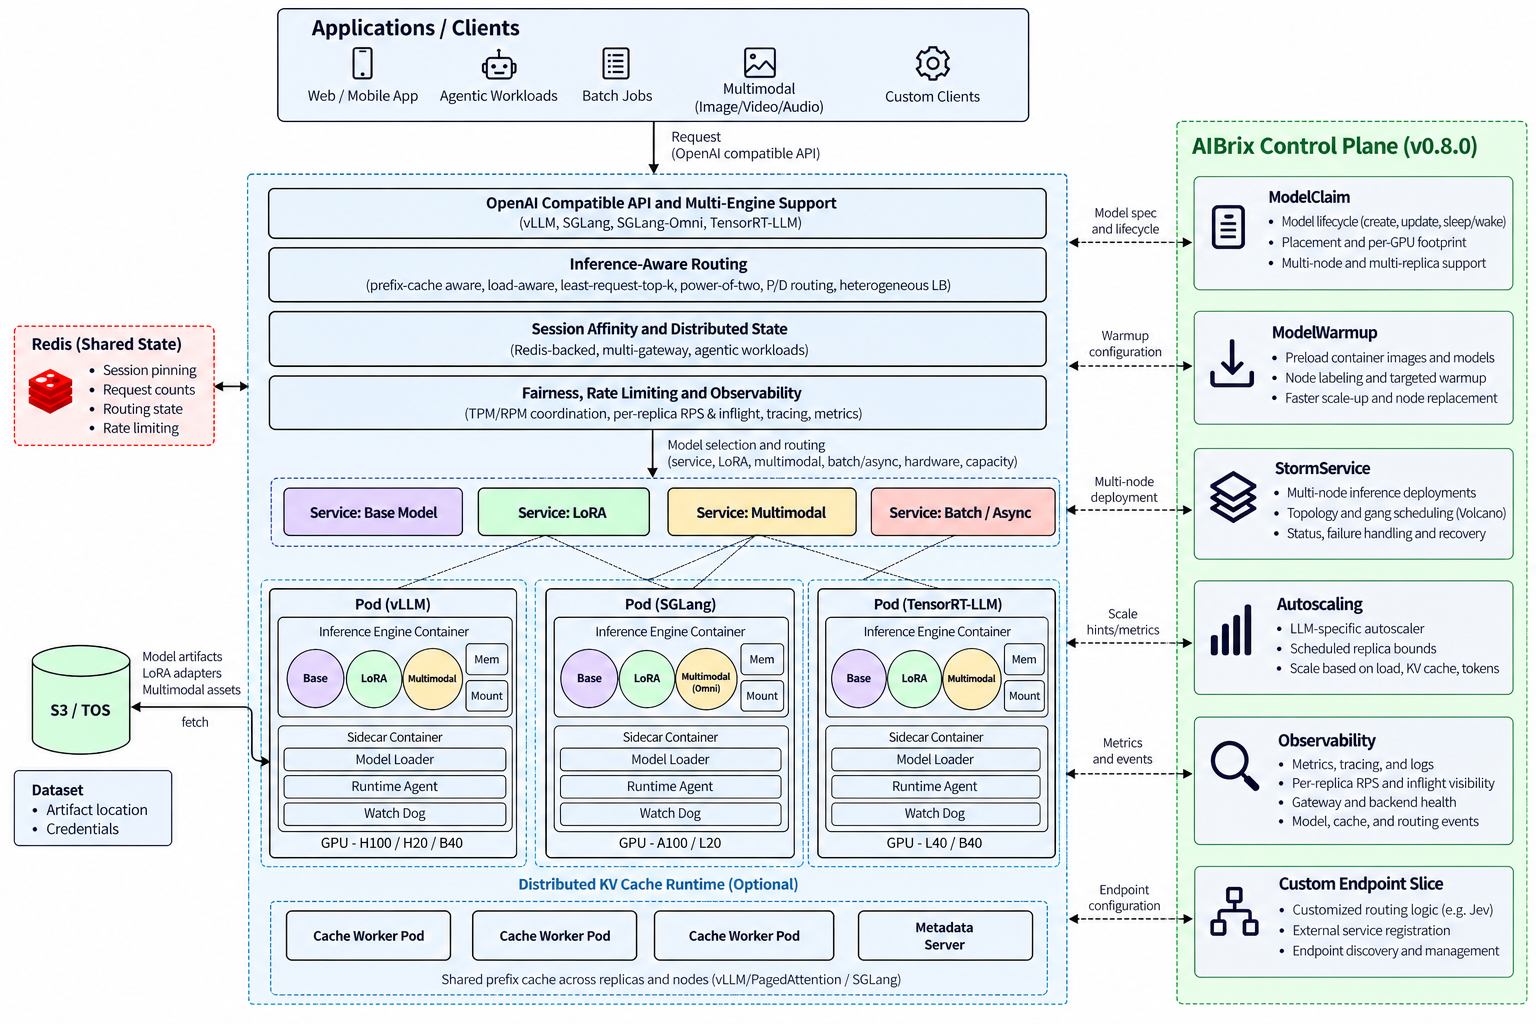
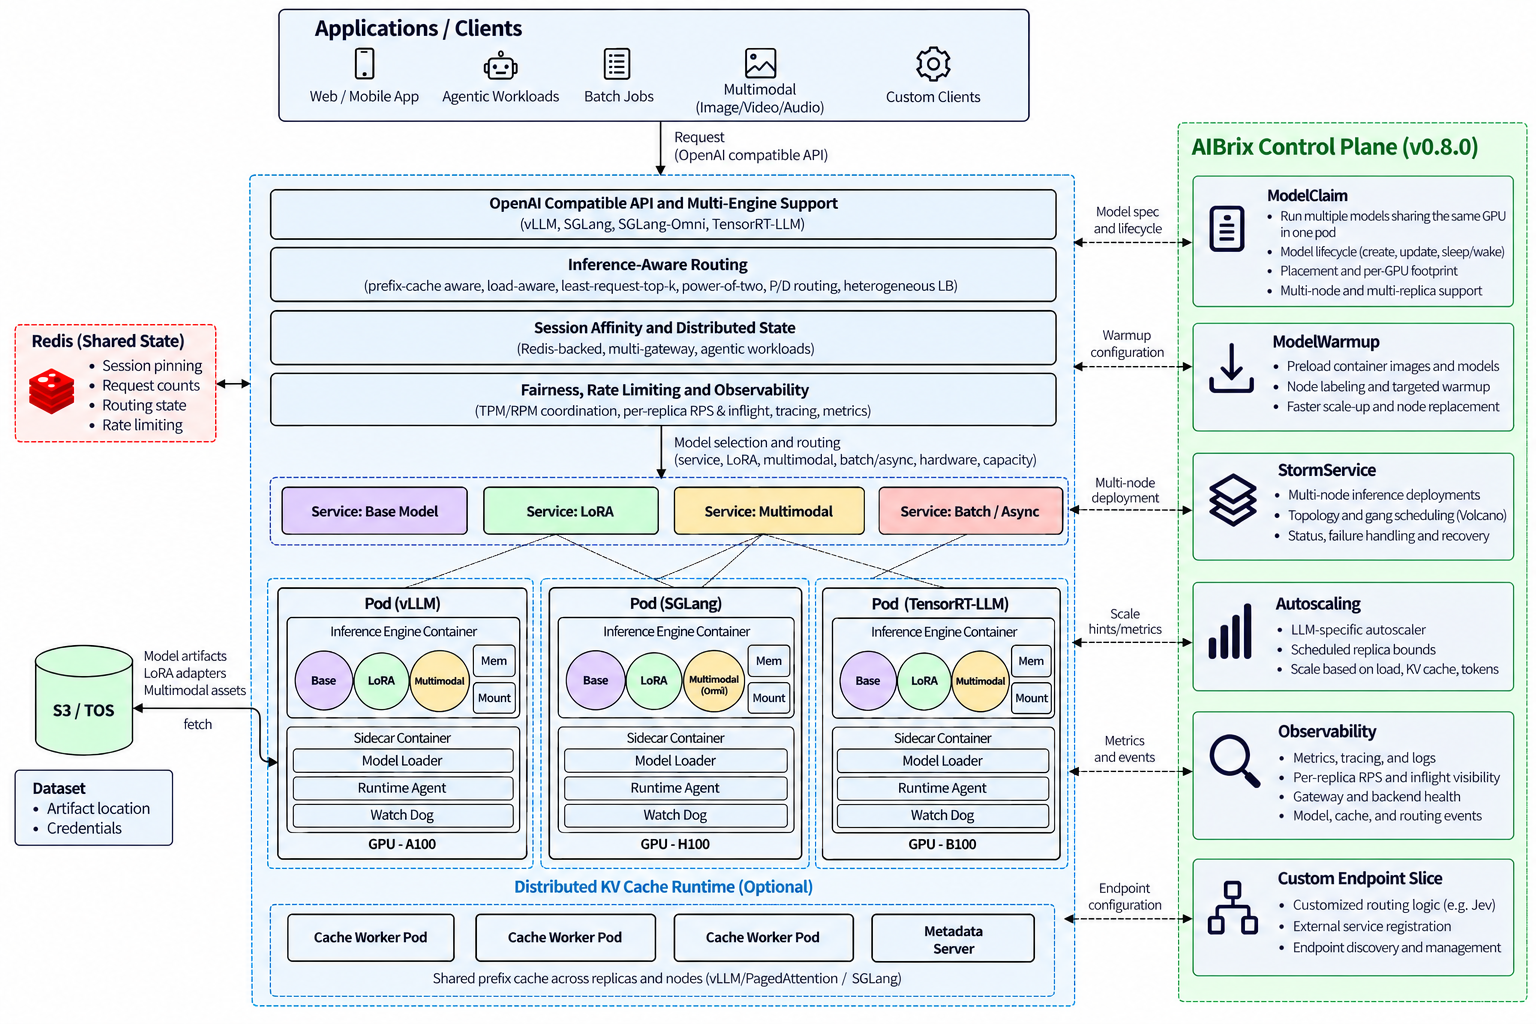
address gemini comments

Changed region(s): [[0.0, 0.0, 1.0, 1.0], [0.0, 0.75, 0.0938, 0.8438], [0.9688, 0.5625, 1.0, 0.5938]]

diff --git a/README.md b/README.md
@@ -1,96 +1,121 @@
 # AIBrix
 
-Welcome to AIBrix, an open-source initiative designed to provide essential building blocks to construct scalable GenAI inference infrastructure. AIBrix delivers a cloud-native solution optimized for deploying, managing, and scaling large language model (LLM) inference, tailored specifically to enterprise needs.
-
-
 <p align="center">
-| <a href="https://aibrix.readthedocs.io/latest/"><b>Documentation</b></a> | <a href="https://aibrix.github.io/"><b>Blog</b></a> | <a href="https://arxiv.org/abs/2504.03648"><b>White Paper</b></a> | <a href="https://x.com/vllm_project"><b>Twitter/X</b></a> | <a href="https://vllm-dev.slack.com/archives/C08EQ883CSV"><b>Developer Slack</b></a> |
+  <a href="LICENSE"><img src="https://img.shields.io/badge/License-Apache_2.0-blue.svg" alt="License"></a>
+  <a href="https://aibrix.readthedocs.io/latest/"><img src="https://img.shields.io/badge/docs-latest-brightgreen.svg" alt="Documentation"></a>
+  <a href="https://github.com/vllm-project/aibrix/releases/latest"><img src="https://img.shields.io/github/v/release/vllm-project/aibrix?label=release" alt="Release"></a>
+  <a href="https://vllm-dev.slack.com/archives/C08EQ883CSV"><img src="https://img.shields.io/badge/slack-%23aibrix-4A154B.svg" alt="Slack"></a>
 </p>
 
-## Latest News
+<p align="center">
+  <a href="https://aibrix.readthedocs.io/latest/"><b>Documentation</b></a> ·
+  <a href="https://aibrix.github.io/"><b>Blog</b></a> ·
+  <a href="https://arxiv.org/abs/2504.03648"><b>White paper</b></a> ·
+  <a href="https://x.com/vllm_project"><b>X</b></a> ·
+  <a href="https://vllm-dev.slack.com/archives/C08EQ883CSV"><b>Slack</b></a>
+</p>
 
-### Releases
-- **[2026-06-16]** AIBrix v0.7.0 is released. Check out the [release notes](https://github.com/vllm-project/aibrix/releases/tag/v0.7.0) and [Blog Post](https://aibrix.github.io/posts/2026-06-16-v0.7.0-release/) for more details.
-- **[2026-03-05]** AIBrix v0.6.0 is released. Check out the [release notes](https://github.com/vllm-project/aibrix/releases/tag/v0.6.0) and [Blog Post](https://aibrix.github.io/posts/2026-03-03-v0.6.0-release/) for more details.
-- **[2025-11-10]** AIBrix v0.5.0 is released. Check out the [release notes](https://github.com/vllm-project/aibrix/releases/tag/v0.5.0) and [Blog Post](https://aibrix.github.io/posts/2025-11-10-v0.5.0-release/) for more details.
-- **[2025-08-05]** AIBrix v0.4.0 is released. Check out the [release notes](https://github.com/vllm-project/aibrix/releases/tag/v0.4.0) and [Blog Post](https://aibrix.github.io/posts/2025-08-04-v0.4.0-release/) for more details.
-- **[2025-05-21]** AIBrix v0.3.0 is released. Check out the [release notes](https://github.com/vllm-project/aibrix/releases/tag/v0.3.0) and [Blog Post](https://aibrix.github.io/posts/2025-05-21-v0.3.0-release/) for more details.
-- **[2025-03-09]** AIBrix v0.2.1 is released. DeepSeek-R1 full weights deployment is supported and gateway stability has been improved! Check [Blog Post](https://aibrix.github.io/posts/2025-03-10-deepseek-r1/) for more details.
-- **[2025-02-19]** AIBrix v0.2.0 is released. Check out the [release notes](https://github.com/vllm-project/aibrix/releases/tag/v0.2.0) and [Blog Post](https://aibrix.github.io/posts/2025-02-05-v0.2.0-release/) for more details.
-- **[2024-11-13]** AIBrix v0.1.0 is released. Check out the [release notes](https://github.com/vllm-project/aibrix/releases/tag/v0.1.0) and [Blog Post](https://aibrix.github.io/posts/2024-11-12-v0.1.0-release/) for more details.
+AIBrix is a Kubernetes control plane for production LLM inference. You bring the engine — vLLM, SGLang, or TensorRT-LLM — and AIBrix routes each request from live engine state, scales on inference metrics, and manages models, LoRA adapters, and KV cache.
 
-### Talks and Presentations
+Use it when you run many models or replicas, mix GPU types, or need to hold cost and latency targets.
 
-- **[2025-11-12]** AIBrix team co-delivered a keynote at KubeCon North America 2025 [AIBrix: Kubernetes-native GenAI Inference Infrastructure](https://www.youtube.com/watch?v=7KHenRXNGAw&t=875s), providing AIBrix overview.
-- **[2025-06-10]** AIBrix team delivered a talk at KubeCon China 2025 titled [AIBrix: Cost-Effective and Scalable Kubernetes Control Plane for vLLM](https://kccncchn2025.sched.com/event/1x5im/introducing-aibrix-cost-effective-and-scalable-kubernetes-control-plane-for-vllm-jiaxin-shan-liguang-xie-bytedance), discussing how the framework optimizes vLLM deployment via Kubernetes for cost efficiency and scalability.
-- **[2025-04-04]** AIBrix team co-delivered a keynote at KubeCon EU 2025 with Google on [LLM-Aware Load Balancing in Kubernetes: A New Era of Efficiency](https://kccnceu2025.sched.com/event/1txC7/keynote-llm-aware-load-balancing-in-kubernetes-a-new-era-of-efficiency-clayton-coleman-distinguished-engineer-google-jiaxin-shan-software-engineer-bytedance), focusing on LLM specific routing solutions.
-- **[2025-03-30]** AIBrix was featured at the [ASPLOS'25](http://asplos-conference.org/asplos2025/) workshop with the presentation [AIBrix: An Open-Source, Large-Scale LLM Inference Infrastructure for System Research](https://docs.google.com/presentation/d/1YDVsPFTIgGXnROGaJ1VKuDDAB4T5fzpE/edit), showcasing its architecture for efficient LLM inference in system research scenarios.
+## Features
 
-## Key Features
-
-The initial release includes the following key features:
-
-- **High-Density LoRA Management**: Streamlined support for lightweight, low-rank adaptations of models.
-- **LLM Gateway and Routing**: Efficiently manage and direct traffic across multiple models and replicas.
-- **LLM App-Tailored Autoscaler**: Dynamically scale inference resources based on real-time demand.
-- **Unified AI Runtime**: A versatile sidecar enabling metric standardization, model downloading, and management.
-- **Distributed Inference**: Scalable architecture to handle large workloads across multiple nodes.
-- **Distributed KV Cache**: Enables high-capacity, cross-engine KV reuse.
-- **Cost-efficient Heterogeneous Serving**: Enables mixed GPU inference to reduce costs with SLO guarantees.
-- **GPU Hardware Failure Detection**: Proactive detection of GPU hardware issues.
+| Capability | What it does |
+| --- | --- |
+| [Gateway and routing](https://aibrix.readthedocs.io/latest/features/gateway-routing/gateway-plugins.html) | OpenAI-compatible API. Picks a pod from live engine state, including prefix-cache, load, and [prefill/decode](https://aibrix.readthedocs.io/latest/features/gateway-routing/pd-disaggregation.html) placement, with session affinity for agentic workloads. |
+| [Multi-engine](https://aibrix.readthedocs.io/latest/features/model-serving/multi-engine.html) | Serve vLLM, SGLang, and TensorRT-LLM behind one gateway. |
+| [LoRA](https://aibrix.readthedocs.io/latest/features/model-serving/lora-dynamic-loading.html) | Pack many low-rank adapters onto shared base-model pods. |
+| [Model lifecycle](https://aibrix.readthedocs.io/latest/features/model-serving/model-claim.html) | Declare models with ModelClaim, and [preload images and weights](https://aibrix.readthedocs.io/latest/features/model-serving/model-warmup.html) with ModelWarmup so scale-up is faster. |
+| [Autoscaling](https://aibrix.readthedocs.io/latest/features/scaling-performance/autoscaling/autoscaling.html) | Scale replicas on engine metrics such as queue depth, KV cache, and tokens. |
+| [Distributed inference](https://aibrix.readthedocs.io/latest/features/model-serving/multi-node-inference.html) | Run multi-node and multi-role deployments, including prefill/decode, with StormService. |
+| [Distributed KV cache](https://aibrix.readthedocs.io/latest/features/scaling-performance/kvcache-offloading.html) | Offload KV cache and reuse it across engines. |
+| [Heterogeneous GPUs](https://aibrix.readthedocs.io/latest/features/model-serving/heterogeneous-gpu.html) | Mix GPU types and still target cost and SLO. Experimental. |
+| [Runtime](https://aibrix.readthedocs.io/latest/features/model-serving/runtime.html) | Sidecar that downloads weights, loads and unloads adapters, and normalizes engine metrics. |
 
 ## Architecture
 
-![aibrix-architecture-v1](docs/source/assets/images/aibrix-architecture-v1.jpeg)
+![AIBrix architecture: a data plane that routes requests to engine pods, and a Kubernetes control plane for model lifecycle, warmup, multi-node serving, autoscaling, and observability](docs/source/assets/images/aibrix-architecture-v2.png)
 
+Requests hit an OpenAI-compatible gateway and go straight to an engine pod. Kubernetes controllers decide what should be running: model lifecycle, warmup, multi-node topology, autoscaling, and observability. The [architecture guide](https://aibrix.readthedocs.io/latest/designs/architecture.html) walks through both planes.
 
-## Quick Start
+## Quick start
 
-To get started with AIBrix, clone this repository and follow the setup instructions in the documentation. Our comprehensive guide will help you configure and deploy your first LLM infrastructure seamlessly.
+These commands install AIBrix, including its Envoy Gateway dependency, into the cluster your current `kubectl` context points at. KubeRay is included and is only required for Ray-based multi-node inference.
+
+The snippet uses **v0.7.0**, the latest published release, so the downloads succeed today. This repository’s manifests track the [v0.8.0-rc.1](https://github.com/vllm-project/aibrix/releases/tag/v0.8.0-rc.1) release candidate; that GitHub release is still a draft, and its asset URLs return 404 until it is published. Switch `VERSION` when it is.
+
+### Install a release
 
 ```shell
-# Local Testing
+VERSION=v0.7.0
+
+# Dependencies (Envoy Gateway, KubeRay, and friends)
+kubectl apply -f "https://github.com/vllm-project/aibrix/releases/download/${VERSION}/aibrix-dependency-${VERSION}.yaml" --server-side
+
+# CRDs ship separately so uninstalling the operator does not delete user resources
+kubectl apply -f "https://github.com/vllm-project/aibrix/releases/download/${VERSION}/aibrix-core-crds-${VERSION}.yaml" --server-side
+
+# Controllers, gateway plugins, and supporting services
+kubectl apply -f "https://github.com/vllm-project/aibrix/releases/download/${VERSION}/aibrix-core-${VERSION}.yaml"
+
+kubectl get pods -n aibrix-system
+```
+
+When the pods are ready, deploy a model and call the gateway. The [quickstart](https://aibrix.readthedocs.io/latest/getting_started/quickstart.html) has a base-model manifest and the OpenAI-compatible curl commands. Helm install steps are in the [installation guide](https://aibrix.readthedocs.io/latest/getting_started/installation/installation.html).
+
+### Install from this checkout
+
+Images in `config/default` are tagged `nightly`.
+
+```shell
 git clone https://github.com/vllm-project/aibrix.git
 cd aibrix
 
-# Install nightly aibrix dependencies
 kubectl apply -k config/dependency --server-side
-
-# Install nightly AIBrix CRDs (separate from the operator so uninstalls don't wipe user CRs)
 kubectl apply -k config/crd --server-side
-
-# Install nightly aibrix components
 kubectl apply -k config/default
-```
-
-Install stable distribution
-```shell
-# Install component dependencies
-kubectl apply -f "https://github.com/vllm-project/aibrix/releases/download/v0.8.0-rc.1/aibrix-dependency-v0.8.0-rc.1.yaml" --server-side
-
-# Install AIBrix CRDs (separate from the operator so uninstalls don't wipe user CRs)
-kubectl apply -f "https://github.com/vllm-project/aibrix/releases/download/v0.8.0-rc.1/aibrix-core-crds-v0.8.0-rc.1.yaml" --server-side
-
-# Install aibrix components
-kubectl apply -f "https://github.com/vllm-project/aibrix/releases/download/v0.8.0-rc.1/aibrix-core-v0.8.0-rc.1.yaml"
 ```
 
 ## Documentation
 
-For detailed documentation on installation, configuration, and usage, please visit our [documentation page](https://aibrix.readthedocs.io/latest/).
+Full guides live at [aibrix.readthedocs.io](https://aibrix.readthedocs.io/latest/).
 
-## Contributing
+| You want to | Start here |
+| --- | --- |
+| Serve a first model | [Overview](https://aibrix.readthedocs.io/latest/getting_started/overview.html), then the [quickstart](https://aibrix.readthedocs.io/latest/getting_started/quickstart.html) |
+| Make a running deployment cheaper | [Autoscaling](https://aibrix.readthedocs.io/latest/features/scaling-performance/autoscaling/autoscaling.html), [LoRA](https://aibrix.readthedocs.io/latest/features/model-serving/lora-dynamic-loading.html), [KV cache](https://aibrix.readthedocs.io/latest/features/scaling-performance/kvcache-offloading.html), [observability](https://aibrix.readthedocs.io/latest/production/observability.html) |
+| Hit scale or latency targets | [Prefill/decode](https://aibrix.readthedocs.io/latest/features/gateway-routing/pd-disaggregation.html), [multi-node inference](https://aibrix.readthedocs.io/latest/features/model-serving/multi-node-inference.html), [heterogeneous GPUs](https://aibrix.readthedocs.io/latest/features/model-serving/heterogeneous-gpu.html) |
 
-We welcome contributions from the community! Check out our [contributing guidelines](./CONTRIBUTING.md) to see how you can make a difference.
+## News
 
-Slack Channel: [#aibrix](https://vllm-dev.slack.com/archives/C08EQ883CSV)
+### Releases
 
-## License
+- **[2026-10-09]** [v0.8.0-rc.1](https://github.com/vllm-project/aibrix/releases/tag/v0.8.0-rc.1) release candidate.
+- **[2026-06-16]** [v0.7.0](https://github.com/vllm-project/aibrix/releases/tag/v0.7.0) · [blog](https://aibrix.github.io/posts/2026-06-16-v0.7.0-release/)
+- **[2026-03-05]** [v0.6.0](https://github.com/vllm-project/aibrix/releases/tag/v0.6.0) · [blog](https://aibrix.github.io/posts/2026-03-03-v0.6.0-release/)
+- **[2025-11-10]** [v0.5.0](https://github.com/vllm-project/aibrix/releases/tag/v0.5.0) · [blog](https://aibrix.github.io/posts/2025-11-10-v0.5.0-release/)
 
-AIBrix is licensed under the [Apache 2.0 License](LICENSE).
+<details>
+<summary>Older releases</summary>
 
-## Support
+- **[2025-08-05]** [v0.4.0](https://github.com/vllm-project/aibrix/releases/tag/v0.4.0) · [blog](https://aibrix.github.io/posts/2025-08-04-v0.4.0-release/)
+- **[2025-05-21]** [v0.3.0](https://github.com/vllm-project/aibrix/releases/tag/v0.3.0) · [blog](https://aibrix.github.io/posts/2025-05-21-v0.3.0-release/)
+- **[2025-03-09]** [v0.2.1](https://github.com/vllm-project/aibrix/releases/tag/v0.2.1) adds DeepSeek-R1 full-weight deployment and gateway stability fixes. [Blog](https://aibrix.github.io/posts/2025-03-10-deepseek-r1/)
+- **[2025-02-19]** [v0.2.0](https://github.com/vllm-project/aibrix/releases/tag/v0.2.0) · [blog](https://aibrix.github.io/posts/2025-02-05-v0.2.0-release/)
+- **[2024-11-13]** [v0.1.0](https://github.com/vllm-project/aibrix/releases/tag/v0.1.0) · [blog](https://aibrix.github.io/posts/2024-11-12-v0.1.0-release/)
 
-If you have any questions or encounter any issues, please submit an issue on our [GitHub issues page](https://github.com/vllm-project/aibrix/issues).
+</details>
 
-Thank you for choosing AIBrix for your GenAI infrastructure needs!
+### Talks
+
+- **[2025-11-12]** KubeCon North America keynote: [Kubernetes-native GenAI Inference Infrastructure](https://www.youtube.com/watch?v=7KHenRXNGAw&t=875s)
+- **[2025-06-10]** KubeCon China: [Cost-effective Kubernetes control plane for vLLM](https://kccncchn2025.sched.com/event/1x5im/introducing-aibrix-cost-effective-and-scalable-kubernetes-control-plane-for-vllm-jiaxin-shan-liguang-xie-bytedance)
+- **[2025-04-04]** KubeCon EU keynote, with Google: [LLM-aware load balancing in Kubernetes](https://kccnceu2025.sched.com/event/1txC7/keynote-llm-aware-load-balancing-in-kubernetes-a-new-era-of-efficiency-clayton-coleman-distinguished-engineer-google-jiaxin-shan-software-engineer-bytedance)
+- **[2025-03-30]** ASPLOS'25 workshop: [Large-scale LLM inference infrastructure for systems research](https://docs.google.com/presentation/d/1YDVsPFTIgGXnROGaJ1VKuDDAB4T5fzpE/edit)
+
+## Community
+
+Contributions are welcome. Read the [contributing guide](./CONTRIBUTING.md), talk in [#aibrix](https://vllm-dev.slack.com/archives/C08EQ883CSV) on the vLLM Slack, or email [maintainers@aibrix.ai](mailto:maintainers@aibrix.ai).
+
+Bugs and feature requests go on [GitHub Issues](https://github.com/vllm-project/aibrix/issues). AIBrix is licensed under [Apache 2.0](LICENSE).

diff --git a/docs/source/index.rst b/docs/source/index.rst
@@ -11,9 +11,11 @@ AIBrix delivers a cloud-native solution optimized for deploying, managing, and s
 
 Key features:
 
-- **LLM Gateway and Routing**: Efficiently manage and direct traffic across multiple models and replicas.
+- **LLM Gateway and Routing**: OpenAI-compatible gateway that routes by live engine state, with prefix-cache-aware, load-aware, and P/D routing, plus session affinity for agentic workloads.
+- **Multi-Engine Support**: Serve vLLM, SGLang, TensorRT-LLM, and xLLM side by side behind one gateway.
 - **High-Density LoRA Management**: Streamlined support for lightweight, low-rank adaptations of models.
-- **Distributed Inference**: Scalable architecture to handle large workloads across multiple nodes.
+- **Model Lifecycle**: Declare models with ModelClaim, and preload images and weights onto nodes with ModelWarmup for faster scale-up.
+- **Distributed Inference**: Multi-node inference deployments with StormService, scaling large workloads across nodes.
 - **LLM App-Tailored Autoscaler**: Dynamically scale inference resources based on real-time demand.
 - **Unified AI Runtime**: A versatile sidecar enabling metric standardization, model downloading, and management.
 - **Heterogeneous-GPU Inference**: Cost-effective SLO-driven LLM inference using heterogeneous GPUs.

diff --git a/docs/source/features/gateway-routing/gateway-plugins.rst b/docs/source/features/gateway-routing/gateway-plugins.rst
@@ -226,7 +226,7 @@ General load balancing
 
   Edge cases:
 
-  - **KV guardrail:** a pod with less than 10% free KV cache scores ``+Inf`` and is skipped. If every pod is below that threshold, the request still routes, to the pod with the most KV headroom.
+  - **KV guardrail:** a pod with less than 10% free KV cache scores ``+Inf`` and is skipped. If every pod is below that threshold, the request still routes to the pod with the most KV headroom.
   - **Missing KV metrics:** a pod whose engine reports no KV-cache usage, or reports ``NaN``, is treated as fully free (no penalty and no guardrail).
   - **No token-rate estimate yet:** the pod is scored at the mean estimate of the others (uniform capacity when none has one).
   - **Ties:** broken using least combined GPU+CPU KV-cache usage, falling back to a random pick if cache metrics are unavailable for the tied pods.

diff --git a/docs/source/features/model-serving/heterogeneous-gpu.rst b/docs/source/features/model-serving/heterogeneous-gpu.rst
@@ -180,7 +180,7 @@ Behavior in Edge Cases
    * - ``kvFree < kvCritical``
      - Score is ``+Inf``. When ``load-balance`` routes alone, the replica is skipped until it recovers. When ``load-balance`` is blended with other strategies, ``+Inf`` is only a strong penalty: another strategy that scores the replica highly can still select it.
    * - Every replica is below ``kvCritical``
-     - The request is not failed. It is routed to the replica with the most KV headroom.
+     - The request does not fail. It is routed to the replica with the most KV headroom.
    * - Replica is idle (``running = 0``)
      - Score is ``0`` regardless of capacity, so idle replicas are preferred.
    * - Several replicas share the lowest score
